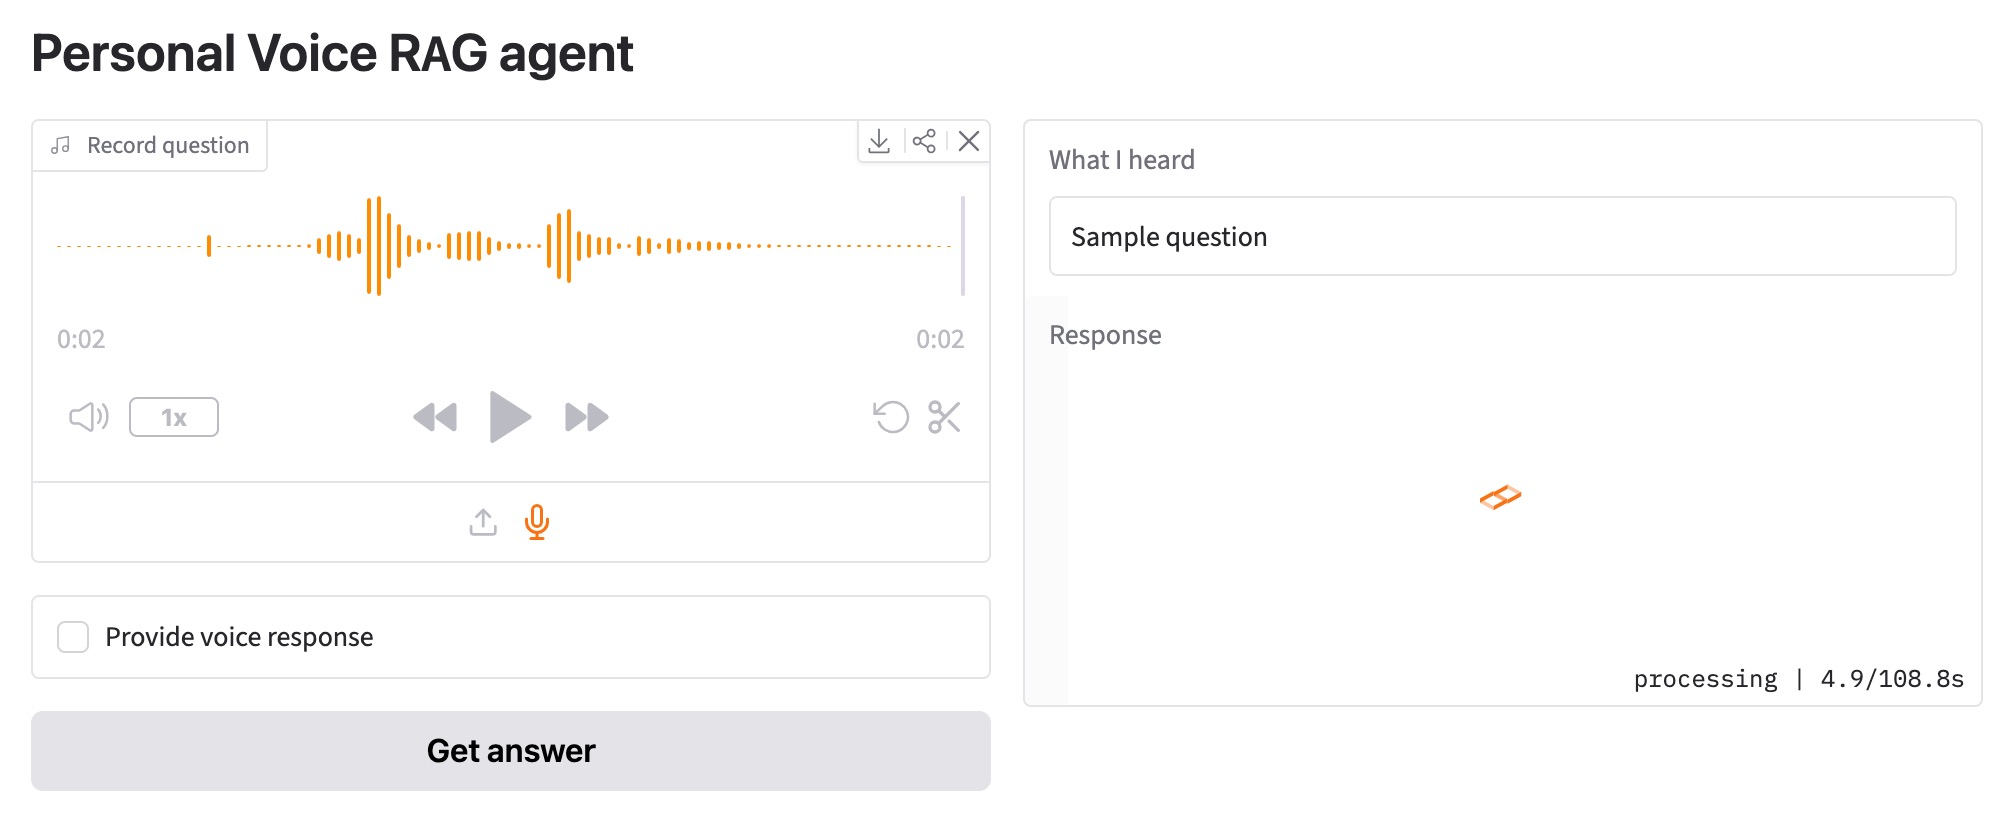
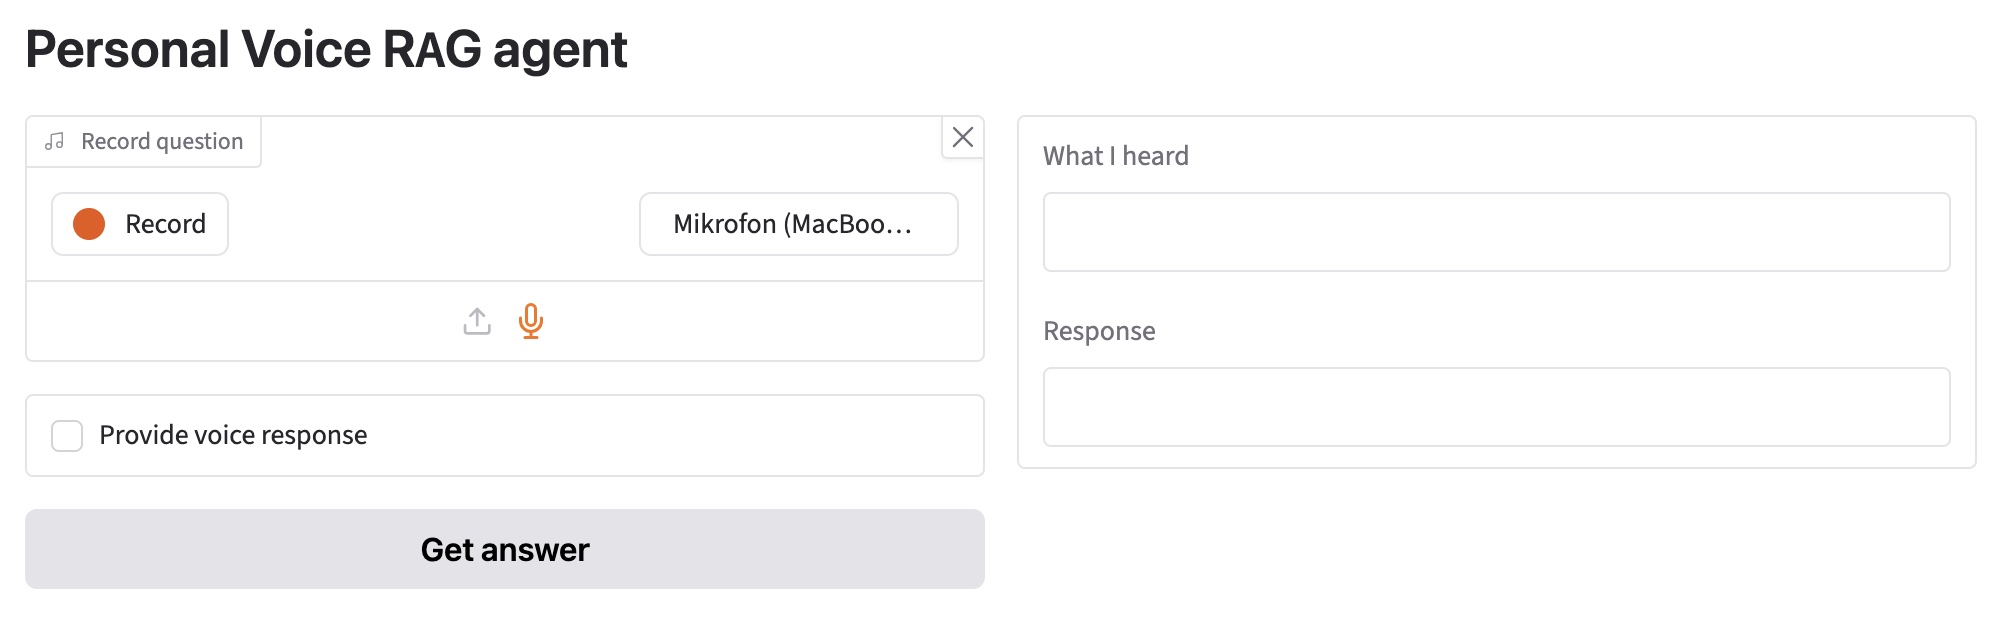
Updated ver 0.0.2

diff --git a/README.md b/README.md
@@ -103,7 +103,9 @@ http://localhost:7860
 ```
 ## Sample screenshot
 
+Example of processing voice questions:
 ![Web UI](https://github.com/r0bert-t/personal-voice-rag/blob/feature/gradio-ui/docs/personal_voice_agent_UI_01.jpg)
+![Web UI](https://github.com/r0bert-t/personal-voice-rag/blob/feature/gradio-ui/docs/personal_voice_agent_UI_02.jpg)
 
 ## Privacy considerations 
 
